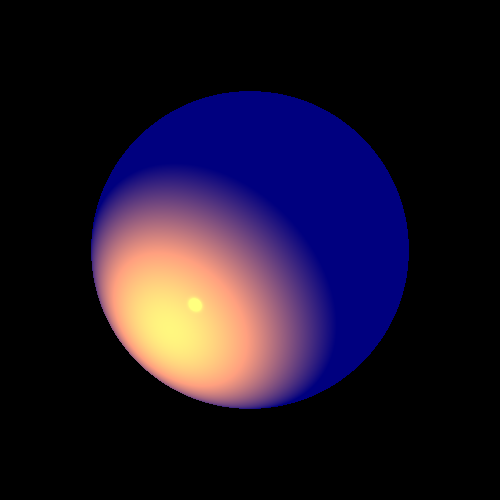
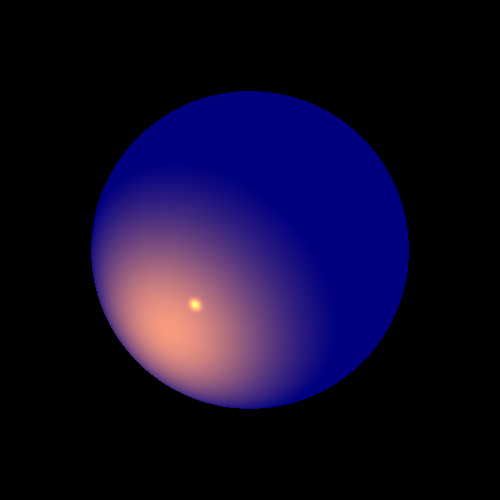
Stage 6: light tests and refactoring Added tests for multiple light sources of different colors. setNarrowBeam was not implemented yet, so it was temporarily removed from the tests. This should not change the validity of the tests so far, as it should be relevant mostly for the tests that end in Spo

Changed region(s): [[0.18, 0.33, 0.66, 0.84]]

diff --git a/unittests/lighting/LightsTests.java b/unittests/lighting/LightsTests.java
@@ -27,10 +27,10 @@ public class LightsTests {
 
     private Point[] p = { // The Triangles' vertices:
             new Point(-110, -110, -150), // the shared left-bottom
-            new Point(80, 100, -150), // the shared right-top
+            new Point(95, 100, -150), // the shared right-top
             new Point(110, -110, -150), // the right-bottom
-            new Point(-75, 85, 0) }; // the left-top
-    private Point trPL = new Point(50, 30, -100); // Triangles test Position of Light
+            new Point(-75, 78, 100) }; // the left-top
+    private Point trPL = new Point(30, 10, -100); // Triangles test Position of Light
     private Point spPL = new Point(-50, -50, 25); // Sphere test Position of Light
     private Color trCL = new Color(800, 500, 250); // Triangles test Color of Light
     private Color spCL = new Color(800, 500, 0); // Sphere test Color of Light
@@ -63,7 +63,7 @@ public class LightsTests {
     @Test
     public void spherePoint() {
         scene1._geometries.add(sphere);
-        scene1._lights.add(new PointLight(spCL, spPL).setkL(0.001).setkL(0.0002));
+        scene1._lights.add(new PointLight(spCL, spPL).setkL(0.001).setkQ(0.0002));
 
         ImageWriter imageWriter = new ImageWriter("lightSpherePoint", 500, 500);
         camera1.setImageWriter(imageWriter) //
@@ -131,6 +131,38 @@ public class LightsTests {
                 .renderImage() //
                 .writeToImage(); //
     }
+
+    /**
+     * Produce a picture of a sphere lighted by a narrow spot light
+     */
+    @Test
+    public void sphereSpotSharp() {
+        scene1._geometries.add(sphere);
+        scene1._lights
+                .add(new Spotlight(spCL, spPL, new Vector(1, 1, -0.5)).setkL(0.001).setkQ(0.00004));
+
+        ImageWriter imageWriter = new ImageWriter("lightSphereSpotSharp", 500, 500);
+        camera1.setImageWriter(imageWriter) //
+                .setRayTracer(new RayTracerBasic(scene1)) //
+                .renderImage() //
+                .writeToImage(); //
+    }
+
+    /**
+     * Produce a picture of a two triangles lighted by a narrow spot light
+     */
+    @Test
+    public void trianglesSpotSharp() {
+        scene2._geometries.add(triangle1, triangle2);
+        scene2._lights.add(new Spotlight(trCL, trPL, trDL).setkL(0.001).setkQ(0.00004));
+
+        ImageWriter imageWriter = new ImageWriter("lightTrianglesSpotSharp", 500, 500);
+        camera2.setImageWriter(imageWriter) //
+                .setRayTracer(new RayTracerBasic(scene2)) //
+                .renderImage() //
+                .writeToImage(); //
+    }
+
 
     /**
      * This method tests the two triangles with multiple lights

diff --git a/src/lighting/PointLight.java b/src/lighting/PointLight.java
@@ -52,8 +52,7 @@ public class PointLight extends Light implements LightSource {
     @Override
     public Color getIntensity(Point p) {
         double dim = _kC + _kL * p.distance(_position) + _kQ * p.distanceSquared(_position);
-        dim = 1.0 / dim;
-        return super._intensity.scale(dim);
+        return _intensity.scale(1/dim);
     }
 
     /***
@@ -63,6 +62,7 @@ public class PointLight extends Light implements LightSource {
      */
     @Override
     public Vector getL(Point p) {
-        return p.subtract(_position).normalize();
+        Vector l = p.subtract(_position).normalize();
+        return l;
     }
 }

diff --git a/src/lighting/Spotlight.java b/src/lighting/Spotlight.java
@@ -30,8 +30,8 @@ public class Spotlight extends PointLight {
      */
     @Override
     public Color getIntensity(Point p) {
-        Vector l = getL(p);
+        Vector l = getL(p); //vector from light to point p
         double max = Math.max(0, _direction.normalize().dotProduct(l));
-        return super.getIntensity(p).scale(max);
+        return super.getIntensity(p).scale(max); //uses parent function to implement DRY
     }
 }
